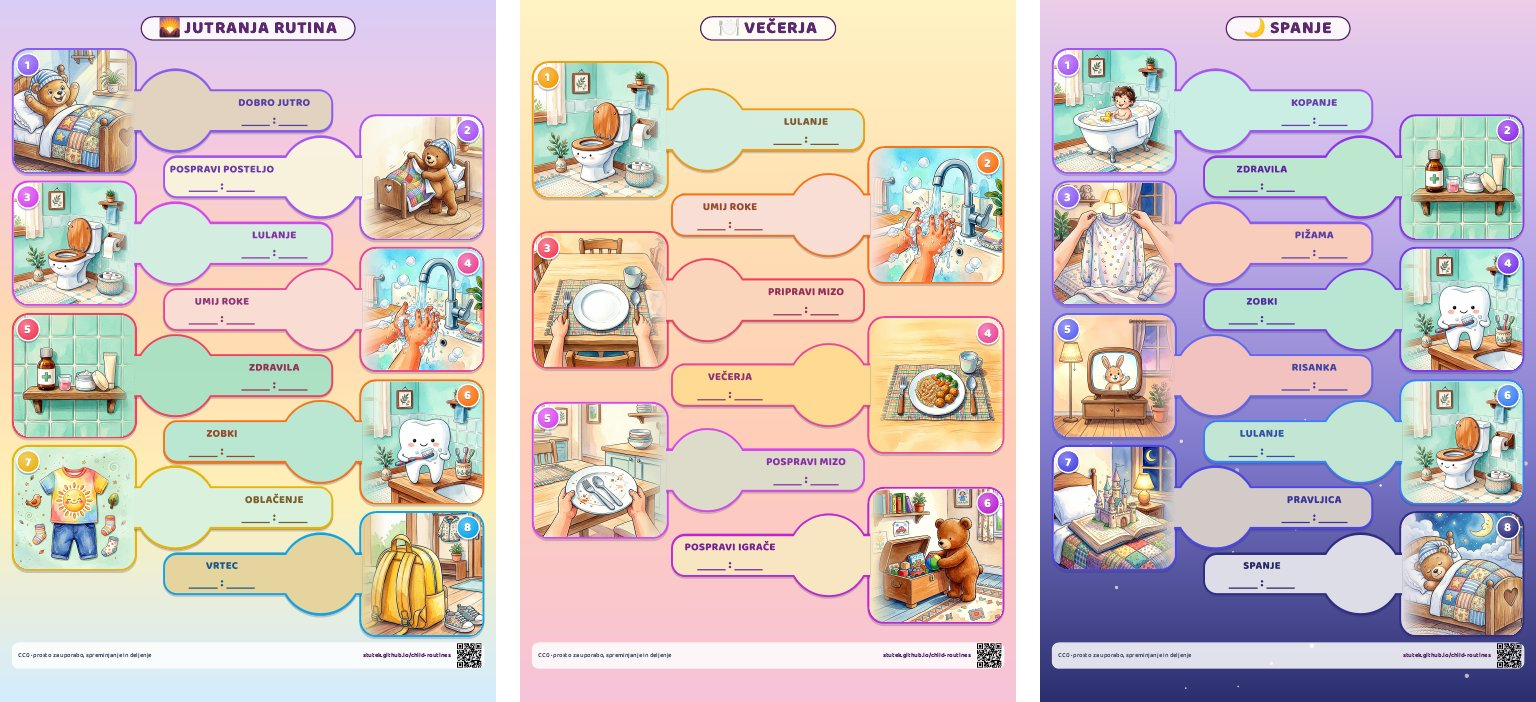
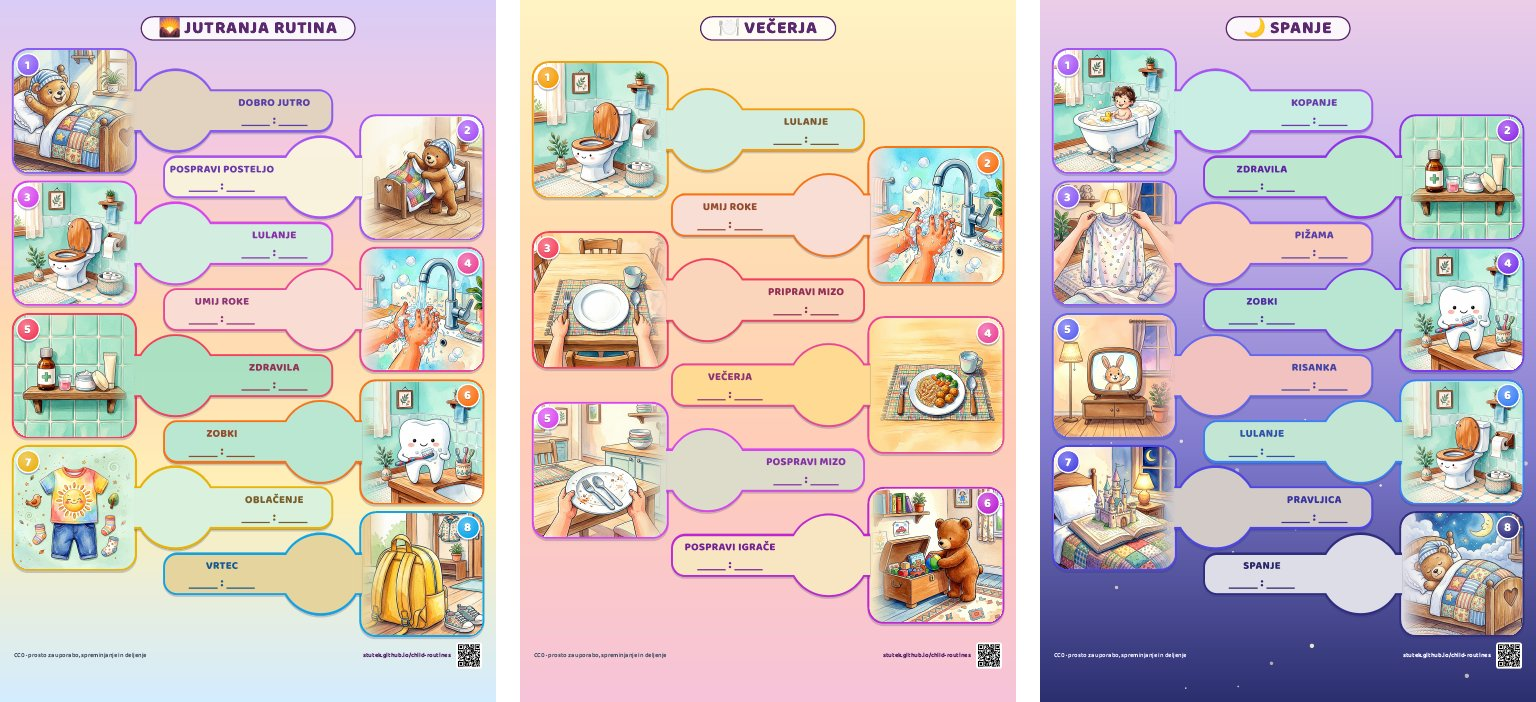
Footer: only the QR code has a white ground; light text on the night sky

Changed region(s): [[0.6875, 0.8974, 1.0, 0.9573], [0.3438, 0.8974, 0.6562, 0.9573], [0.0, 0.8974, 0.3125, 0.9573]]

diff --git a/web/data.js b/web/data.js
@@ -1,6 +1,6 @@
 // Generated by tools/build.py; do not edit by hand.
 window.SHEET_DATA = {
- "css": "\n    @import url('https://fonts.googleapis.com/css2?family=Baloo+2:wght@600;700;800&display=swap');\n\n    * { box-sizing: border-box; margin: 0; padding: 0; }\n\n    /* Sheet geometry, all from the paper size (A4). US Letter later: change --page-w and --page-h\n       (and @page size). The frame takes the width the two images leave. */\n    :root {\n      --page-w: 210mm; --page-h: 297mm; --margin: 5mm; --margin-bottom: 14mm;\n      --img: 58mm; --label: 13pt;\n      --frame-w: calc(var(--page-w) - 2 * var(--margin) - 2 * var(--img));\n    }\n\n    body {\n      /* warm paper with soft watercolour washes, like the sheets (screen only; print has no body background) */\n      background:\n        radial-gradient(circle at 8% 12%, rgba(221, 204, 246, 0.75) 0, transparent 38%),\n        radial-gradient(circle at 92% 18%, rgba(255, 217, 176, 0.65) 0, transparent 36%),\n        radial-gradient(circle at 20% 92%, rgba(201, 238, 222, 0.7) 0, transparent 40%),\n        radial-gradient(circle at 85% 85%, rgba(246, 201, 222, 0.6) 0, transparent 38%),\n        #FFF8EF;\n      background-attachment: fixed;\n      font-family: 'Baloo 2', -apple-system, 'Segoe UI', Roboto, Ubuntu, sans-serif;\n      display: flex;\n      flex-direction: column;\n      align-items: center;\n      padding: 24px;\n      gap: 32px;\n      color: #0f172a;\n      -webkit-font-smoothing: antialiased;\n    }\n\n    .no-print-toolbar {\n      background: white;\n      padding: 16px 24px;\n      border-radius: 16px;\n      box-shadow: 0 4px 14px rgba(0, 0, 0, 0.1);\n      display: flex;\n      align-items: center;\n      gap: 20px;\n      max-width: 840px;\n      width: 100%;\n      justify-content: space-between;\n    }\n    .no-print-toolbar h2 { font-size: 18px; margin-bottom: 3px; }\n    .toolbar-info { font-size: 14px; color: #475569; line-height: 1.4; }\n    .btn-print {\n      background: #7C3AED;\n      color: white;\n      border: none;\n      padding: 12px 24px;\n      font: inherit;\n      font-size: 16px;\n      font-weight: 700;\n      border-radius: 12px;\n      cursor: pointer;\n    }\n    .btn-print:hover { background: #6D28D9; }\n\n    /* A4 sheet; the sky background prints because of print-color-adjust: exact. Margins stay inside\n       the area home printers can print (Epson: 3 mm top and sides, 14 mm bottom). */\n    .page-a4 {\n      position: relative;\n      width: var(--page-w);\n      height: var(--page-h);\n      padding: var(--margin) var(--margin) var(--margin-bottom);\n      display: flex;\n      flex-direction: column;\n      overflow: hidden;\n      box-shadow: 0 8px 24px rgba(0, 0, 0, 0.15);\n      break-after: page;\n      -webkit-print-color-adjust: exact;\n      print-color-adjust: exact;\n    }\n\n    .rt-sky { position: absolute; inset: 0; width: 100%; height: 100%; pointer-events: none; }\n\n    /* Images alternate left and right, each spanning four half-rows, with the label frame beside it.\n       Image + frame + image = sheet width without margins (200 mm on A4), because a frame reaches into\n       the height of the opposite image. */\n    .rt-grid {\n      position: relative;\n      flex-grow: 1;\n      min-height: 0;\n      display: grid;\n      grid-template-columns: var(--img) 1fr var(--img);\n    }\n\n    .rt-header { grid-column: 1 / -1; grid-row: 1; align-self: center; text-align: center; }\n\n    /* Footer: licence left, address and QR right, on a light band that reads on the night sky too */\n    .rt-footer {\n      position: relative; flex: none; height: 11mm; margin-top: 1mm;\n      display: flex; align-items: center; gap: 2mm; padding: 0 1mm 0 3mm;\n      background: rgba(255, 255, 255, 0.85); border-radius: 3mm;\n      font-size: 7.5pt; font-weight: 600; color: #475569;\n    }\n    .rt-license { margin-right: auto; }\n    .rt-site { font-weight: 800; color: #5B2A6E; }\n    .rt-footer svg { width: 11mm; height: 11mm; flex: none; }\n    .rt-title {\n      display: inline-block;\n      font-size: 21pt;\n      font-weight: 800;\n      line-height: 1.1;\n      letter-spacing: 1px;\n      color: #5B2A6E;\n      background: rgba(255, 255, 255, 0.85);\n      border: 2.5px solid #5B2A6E;\n      border-radius: 30px;\n      padding: 1mm 7mm 0.2mm;\n    }\n\n    .rt-pic {\n      position: relative;\n      align-self: center;\n      justify-self: center;\n      width: var(--img);\n      height: var(--img);\n      border-radius: 7mm;   /* badge radius 5 + gap 1 + border 0.9: concentric with the badge */\n      border: 0.9mm solid var(--step);\n      background: var(--bg);\n      box-shadow: 0 1mm 0 rgba(42, 46, 110, 0.22);\n      overflow: hidden;\n    }\n    .rt-pic img { width: 100%; height: 100%; object-fit: cover; display: block; }\n    .rt-missing {\n      width: 100%;\n      height: 100%;\n      display: flex;\n      align-items: center;\n      justify-content: center;\n      font-size: 40pt;\n      font-weight: 800;\n      color: color-mix(in srgb, var(--step) 35%, #ffffff);\n      border: 1mm dashed color-mix(in srgb, var(--step) 35%, #ffffff);\n      border-radius: 6mm;\n    }\n    .pic-left { grid-column: 1; }\n    .pic-right { grid-column: 3; }\n\n    /* The inner image edge fades into the frame background (--bg) */\n    .pic-left img {\n      -webkit-mask-image: linear-gradient(to right, #000 80%, transparent 100%);\n      mask-image: linear-gradient(to right, #000 80%, transparent 100%);\n    }\n    .pic-right img {\n      -webkit-mask-image: linear-gradient(to left, #000 80%, transparent 100%);\n      mask-image: linear-gradient(to left, #000 80%, transparent 100%);\n    }\n\n    .rt-card {\n      position: relative;\n      z-index: 2;\n      grid-column: 2;\n      align-self: center;\n      width: var(--frame-w);\n      height: 18mm;\n      display: flex;\n      align-items: center;\n      gap: 1.5mm;\n      filter: drop-shadow(0 1mm 0 rgba(42, 46, 110, 0.22));\n    }\n\n    /* Frame, circle and image share one outline: both outlines in the step color at the bottom (0),\n       both fills in the background color on top, inset by the border width (1), text on top (2).\n       The border stays even where circle and frame meet. The frame covers the image border at\n       the seam, so it has no border on that side. */\n    .rt-card::before, .rt-card::after { content: \"\"; position: absolute; border-radius: inherit; }\n    .rt-card::before { inset: 0; z-index: 0; background: var(--step); }\n    .rt-card::after { inset: 0.9mm; z-index: 1; background: var(--bg); border-radius: 0; }\n    .card-left { justify-self: start; margin-left: -0.9mm; border-radius: 0 6mm 6mm 0; flex-direction: row-reverse; padding: 0 2.4mm 0 0; }\n    .card-left::after { left: 0; border-radius: 0 5.1mm 5.1mm 0; }\n    .card-right { justify-self: end; margin-right: -0.9mm; border-radius: 6mm 0 0 6mm; padding: 0 0 0 2.4mm; }\n    .card-right::after { right: 0; border-radius: 5.1mm 0 0 5.1mm; }\n\n    .rt-text { position: relative; z-index: 2; flex-grow: 1; display: flex; flex-direction: column; align-items: center; gap: 0.8mm; }\n\n    /* Step number as a sticker in the outer top corner of the image */\n    .rt-num {\n      position: absolute;\n      top: 1.1mm;\n      width: 10mm;\n      height: 10mm;\n      border-radius: 50%;\n      background: radial-gradient(circle at 35% 30%, color-mix(in srgb, var(--step) 65%, #ffffff), var(--step) 70%);\n      border: 0.6mm solid #ffffff;\n      box-shadow: 0 0.8mm 0 rgba(42, 46, 110, 0.28);\n      color: #ffffff;\n      font-size: 15pt;\n      font-weight: 800;\n      line-height: 1;\n      text-shadow: 0 0.3mm 0 rgba(0, 0, 0, 0.18);\n      display: flex;\n      align-items: center;\n      justify-content: center;\n      padding-top: 0.6mm;\n    }\n    /* Concentric with the image corner (nested-radius rule): badge centre = corner centre, 7 mm from\n       the outer edges; 1.1 mm from the padding box = 7 - 5 (badge radius) - 0.9 (border). */\n    .pic-left .rt-num { left: 1.1mm; }\n    .pic-right .rt-num { right: 1.1mm; }\n\n    .rt-label {\n      white-space: nowrap;\n      font-size: var(--label);\n      font-weight: 800;\n      line-height: 1;\n      letter-spacing: 0.3px;\n      color: var(--ink);\n      padding-top: 0.8mm;\n    }\n\n    .rt-time { display: flex; align-items: flex-end; gap: 1.2mm; font-size: 15pt; font-weight: 800; line-height: 1; color: var(--ink); }\n    .rt-time .blank { display: inline-block; width: 12mm; height: 6.5mm; border-bottom: 0.6mm solid var(--ink); }\n\n    /* Magnet spot: a circle larger than the frame (like the image), merged with it */\n    .rt-check { position: relative; width: 35mm; height: 35mm; min-width: 35mm; }\n    .rt-check::before, .rt-check::after { content: \"\"; position: absolute; border-radius: 50%; }\n    .rt-check::before { inset: 0; z-index: 0; background: var(--step); }\n    .rt-check::after { inset: 0.9mm; z-index: 1; background: var(--bg); }\n\n    @media print {\n      body { background: transparent; padding: 0; gap: 0; }\n      .no-print-toolbar { display: none !important; }\n      .page-a4 { box-shadow: none; margin: 0; }\n      @page { size: A4 portrait; margin: 0; }\n    }\n",
+ "css": "\n    @import url('https://fonts.googleapis.com/css2?family=Baloo+2:wght@600;700;800&display=swap');\n\n    * { box-sizing: border-box; margin: 0; padding: 0; }\n\n    /* Sheet geometry, all from the paper size (A4). US Letter later: change --page-w and --page-h\n       (and @page size). The frame takes the width the two images leave. */\n    :root {\n      --page-w: 210mm; --page-h: 297mm; --margin: 5mm; --margin-bottom: 14mm;\n      --img: 58mm; --label: 13pt;\n      --frame-w: calc(var(--page-w) - 2 * var(--margin) - 2 * var(--img));\n    }\n\n    body {\n      /* warm paper with soft watercolour washes, like the sheets (screen only; print has no body background) */\n      background:\n        radial-gradient(circle at 8% 12%, rgba(221, 204, 246, 0.75) 0, transparent 38%),\n        radial-gradient(circle at 92% 18%, rgba(255, 217, 176, 0.65) 0, transparent 36%),\n        radial-gradient(circle at 20% 92%, rgba(201, 238, 222, 0.7) 0, transparent 40%),\n        radial-gradient(circle at 85% 85%, rgba(246, 201, 222, 0.6) 0, transparent 38%),\n        #FFF8EF;\n      background-attachment: fixed;\n      font-family: 'Baloo 2', -apple-system, 'Segoe UI', Roboto, Ubuntu, sans-serif;\n      display: flex;\n      flex-direction: column;\n      align-items: center;\n      padding: 24px;\n      gap: 32px;\n      color: #0f172a;\n      -webkit-font-smoothing: antialiased;\n    }\n\n    .no-print-toolbar {\n      background: white;\n      padding: 16px 24px;\n      border-radius: 16px;\n      box-shadow: 0 4px 14px rgba(0, 0, 0, 0.1);\n      display: flex;\n      align-items: center;\n      gap: 20px;\n      max-width: 840px;\n      width: 100%;\n      justify-content: space-between;\n    }\n    .no-print-toolbar h2 { font-size: 18px; margin-bottom: 3px; }\n    .toolbar-info { font-size: 14px; color: #475569; line-height: 1.4; }\n    .btn-print {\n      background: #7C3AED;\n      color: white;\n      border: none;\n      padding: 12px 24px;\n      font: inherit;\n      font-size: 16px;\n      font-weight: 700;\n      border-radius: 12px;\n      cursor: pointer;\n    }\n    .btn-print:hover { background: #6D28D9; }\n\n    /* A4 sheet; the sky background prints because of print-color-adjust: exact. Margins stay inside\n       the area home printers can print (Epson: 3 mm top and sides, 14 mm bottom). */\n    .page-a4 {\n      position: relative;\n      width: var(--page-w);\n      height: var(--page-h);\n      padding: var(--margin) var(--margin) var(--margin-bottom);\n      display: flex;\n      flex-direction: column;\n      overflow: hidden;\n      box-shadow: 0 8px 24px rgba(0, 0, 0, 0.15);\n      break-after: page;\n      -webkit-print-color-adjust: exact;\n      print-color-adjust: exact;\n    }\n\n    .rt-sky { position: absolute; inset: 0; width: 100%; height: 100%; pointer-events: none; }\n\n    /* Images alternate left and right, each spanning four half-rows, with the label frame beside it.\n       Image + frame + image = sheet width without margins (200 mm on A4), because a frame reaches into\n       the height of the opposite image. */\n    .rt-grid {\n      position: relative;\n      flex-grow: 1;\n      min-height: 0;\n      display: grid;\n      grid-template-columns: var(--img) 1fr var(--img);\n    }\n\n    .rt-header { grid-column: 1 / -1; grid-row: 1; align-self: center; text-align: center; }\n\n    /* Footer: licence left, address and QR right; only the QR has a white ground (it needs it to scan),\n       the text turns light on the night sky */\n    .rt-footer {\n      position: relative; flex: none; height: 11mm; margin-top: 1mm;\n      display: flex; align-items: center; gap: 2mm; padding: 0 1mm;\n      font-size: 7.5pt; font-weight: 600; color: #475569;\n    }\n    .rt-license { margin-right: auto; }\n    .rt-site { font-weight: 800; color: #5B2A6E; }\n    .rt-footer.on-dark, .rt-footer.on-dark .rt-site { color: #F1EEFF; }\n    .rt-footer svg { width: 11mm; height: 11mm; flex: none; background: #ffffff; border-radius: 1mm; padding: 0.5mm; }\n    .rt-title {\n      display: inline-block;\n      font-size: 21pt;\n      font-weight: 800;\n      line-height: 1.1;\n      letter-spacing: 1px;\n      color: #5B2A6E;\n      background: rgba(255, 255, 255, 0.85);\n      border: 2.5px solid #5B2A6E;\n      border-radius: 30px;\n      padding: 1mm 7mm 0.2mm;\n    }\n\n    .rt-pic {\n      position: relative;\n      align-self: center;\n      justify-self: center;\n      width: var(--img);\n      height: var(--img);\n      border-radius: 7mm;   /* badge radius 5 + gap 1 + border 0.9: concentric with the badge */\n      border: 0.9mm solid var(--step);\n      background: var(--bg);\n      box-shadow: 0 1mm 0 rgba(42, 46, 110, 0.22);\n      overflow: hidden;\n    }\n    .rt-pic img { width: 100%; height: 100%; object-fit: cover; display: block; }\n    .rt-missing {\n      width: 100%;\n      height: 100%;\n      display: flex;\n      align-items: center;\n      justify-content: center;\n      font-size: 40pt;\n      font-weight: 800;\n      color: color-mix(in srgb, var(--step) 35%, #ffffff);\n      border: 1mm dashed color-mix(in srgb, var(--step) 35%, #ffffff);\n      border-radius: 6mm;\n    }\n    .pic-left { grid-column: 1; }\n    .pic-right { grid-column: 3; }\n\n    /* The inner image edge fades into the frame background (--bg) */\n    .pic-left img {\n      -webkit-mask-image: linear-gradient(to right, #000 80%, transparent 100%);\n      mask-image: linear-gradient(to right, #000 80%, transparent 100%);\n    }\n    .pic-right img {\n      -webkit-mask-image: linear-gradient(to left, #000 80%, transparent 100%);\n      mask-image: linear-gradient(to left, #000 80%, transparent 100%);\n    }\n\n    .rt-card {\n      position: relative;\n      z-index: 2;\n      grid-column: 2;\n      align-self: center;\n      width: var(--frame-w);\n      height: 18mm;\n      display: flex;\n      align-items: center;\n      gap: 1.5mm;\n      filter: drop-shadow(0 1mm 0 rgba(42, 46, 110, 0.22));\n    }\n\n    /* Frame, circle and image share one outline: both outlines in the step color at the bottom (0),\n       both fills in the background color on top, inset by the border width (1), text on top (2).\n       The border stays even where circle and frame meet. The frame covers the image border at\n       the seam, so it has no border on that side. */\n    .rt-card::before, .rt-card::after { content: \"\"; position: absolute; border-radius: inherit; }\n    .rt-card::before { inset: 0; z-index: 0; background: var(--step); }\n    .rt-card::after { inset: 0.9mm; z-index: 1; background: var(--bg); border-radius: 0; }\n    .card-left { justify-self: start; margin-left: -0.9mm; border-radius: 0 6mm 6mm 0; flex-direction: row-reverse; padding: 0 2.4mm 0 0; }\n    .card-left::after { left: 0; border-radius: 0 5.1mm 5.1mm 0; }\n    .card-right { justify-self: end; margin-right: -0.9mm; border-radius: 6mm 0 0 6mm; padding: 0 0 0 2.4mm; }\n    .card-right::after { right: 0; border-radius: 5.1mm 0 0 5.1mm; }\n\n    .rt-text { position: relative; z-index: 2; flex-grow: 1; display: flex; flex-direction: column; align-items: center; gap: 0.8mm; }\n\n    /* Step number as a sticker in the outer top corner of the image */\n    .rt-num {\n      position: absolute;\n      top: 1.1mm;\n      width: 10mm;\n      height: 10mm;\n      border-radius: 50%;\n      background: radial-gradient(circle at 35% 30%, color-mix(in srgb, var(--step) 65%, #ffffff), var(--step) 70%);\n      border: 0.6mm solid #ffffff;\n      box-shadow: 0 0.8mm 0 rgba(42, 46, 110, 0.28);\n      color: #ffffff;\n      font-size: 15pt;\n      font-weight: 800;\n      line-height: 1;\n      text-shadow: 0 0.3mm 0 rgba(0, 0, 0, 0.18);\n      display: flex;\n      align-items: center;\n      justify-content: center;\n      padding-top: 0.6mm;\n    }\n    /* Concentric with the image corner (nested-radius rule): badge centre = corner centre, 7 mm from\n       the outer edges; 1.1 mm from the padding box = 7 - 5 (badge radius) - 0.9 (border). */\n    .pic-left .rt-num { left: 1.1mm; }\n    .pic-right .rt-num { right: 1.1mm; }\n\n    .rt-label {\n      white-space: nowrap;\n      font-size: var(--label);\n      font-weight: 800;\n      line-height: 1;\n      letter-spacing: 0.3px;\n      color: var(--ink);\n      padding-top: 0.8mm;\n    }\n\n    .rt-time { display: flex; align-items: flex-end; gap: 1.2mm; font-size: 15pt; font-weight: 800; line-height: 1; color: var(--ink); }\n    .rt-time .blank { display: inline-block; width: 12mm; height: 6.5mm; border-bottom: 0.6mm solid var(--ink); }\n\n    /* Magnet spot: a circle larger than the frame (like the image), merged with it */\n    .rt-check { position: relative; width: 35mm; height: 35mm; min-width: 35mm; }\n    .rt-check::before, .rt-check::after { content: \"\"; position: absolute; border-radius: 50%; }\n    .rt-check::before { inset: 0; z-index: 0; background: var(--step); }\n    .rt-check::after { inset: 0.9mm; z-index: 1; background: var(--bg); }\n\n    @media print {\n      body { background: transparent; padding: 0; gap: 0; }\n      .no-print-toolbar { display: none !important; }\n      .page-a4 { box-shadow: none; margin: 0; }\n      @page { size: A4 portrait; margin: 0; }\n    }\n",
  "skies": {
   "dawn": "#D9CCF6 0%, #F6C9DE 22%, #FFD9B0 45%, #FFF0B8 70%, #D3ECFF 100%",
   "afternoon": "#FFF3C4 0%, #FFE0B2 30%, #FFCDB8 62%, #F6C3D9 100%",

diff --git a/output/sl-vsakdan.html b/output/sl-vsakdan.html
@@ -95,16 +95,17 @@
 
     .rt-header { grid-column: 1 / -1; grid-row: 1; align-self: center; text-align: center; }
 
-    /* Footer: licence left, address and QR right, on a light band that reads on the night sky too */
+    /* Footer: licence left, address and QR right; only the QR has a white ground (it needs it to scan),
+       the text turns light on the night sky */
     .rt-footer {
       position: relative; flex: none; height: 11mm; margin-top: 1mm;
-      display: flex; align-items: center; gap: 2mm; padding: 0 1mm 0 3mm;
-      background: rgba(255, 255, 255, 0.85); border-radius: 3mm;
+      display: flex; align-items: center; gap: 2mm; padding: 0 1mm;
       font-size: 7.5pt; font-weight: 600; color: #475569;
     }
     .rt-license { margin-right: auto; }
     .rt-site { font-weight: 800; color: #5B2A6E; }
-    .rt-footer svg { width: 11mm; height: 11mm; flex: none; }
+    .rt-footer.on-dark, .rt-footer.on-dark .rt-site { color: #F1EEFF; }
+    .rt-footer svg { width: 11mm; height: 11mm; flex: none; background: #ffffff; border-radius: 1mm; padding: 0.5mm; }
     .rt-title {
       display: inline-block;
       font-size: 21pt;
@@ -506,7 +507,7 @@
         <div class="rt-check"></div>
       </div>
     </div>
-    <div class="rt-footer"><span class="rt-license">CC0 · prosto za uporabo, spreminjanje in deljenje</span><span class="rt-site">stutek.github.io/child-routines</span><svg width="31mm" height="31mm" version="1.1" viewBox="0 0 31 31" xmlns="http://www.w3.org/2000/svg"><path d="M1,1H2V2H1zM2,1H3V2H2zM3,1H4V2H3zM4,1H5V2H4zM5,1H6V2H5zM6,1H7V2H6zM7,1H8V2H7zM9,1H10V2H9zM10,1H11V2H10zM11,1H12V2H11zM12,1H13V2H12zM13,1H14V2H13zM14,1H15V2H14zM17,1H18V2H17zM18,1H19V2H18zM19,1H20V2H19zM20,1H21V2H20zM21,1H22V2H21zM23,1H24V2H23zM24,1H25V2H24zM25,1H26V2H25zM26,1H27V2H26zM27,1H28V2H27zM28,1H29V2H28zM29,1H30V2H29zM1,2H2V3H1zM7,2H8V3H7zM9,2H10V3H9zM11,2H12V3H11zM13,2H14V3H13zM14,2H15V3H14zM17,2H18V3H17zM18,2H19V3H18zM21,2H22V3H21zM23,2H24V3H23zM29,2H30V3H29zM1,3H2V4H1zM3,3H4V4H3zM4,3H5V4H4zM5,3H6V4H5zM7,3H8V4H7zM11,3H12V4H11zM14,3H15V4H14zM17,3H18V4H17zM19,3H20V4H19zM21,3H22V4H21zM23,3H24V4H23zM25,3H26V4H25zM26,3H27V4H26zM27,3H28V4H27zM29,3H30V4H29zM1,4H2V5H1zM3,4H4V5H3zM4,4H5V5H4zM5,4H6V5H5zM7,4H8V5H7zM9,4H10V5H9zM11,4H12V5H11zM12,4H13V5H12zM13,4H14V5H13zM14,4H15V5H14zM15,4H16V5H15zM18,4H19V5H18zM20,4H21V5H20zM23,4H24V5H23zM25,4H26V5H25zM26,4H27V5H26zM27,4H28V5H27zM29,4H30V5H29zM1,5H2V6H1zM3,5H4V6H3zM4,5H5V6H4zM5,5H6V6H5zM7,5H8V6H7zM12,5H13V6H12zM15,5H16V6H15zM16,5H17V6H16zM17,5H18V6H17zM20,5H21V6H20zM21,5H22V6H21zM23,5H24V6H23zM25,5H26V6H25zM26,5H27V6H26zM27,5H28V6H27zM29,5H30V6H29zM1,6H2V7H1zM7,6H8V7H7zM10,6H11V7H10zM11,6H12V7H11zM14,6H15V7H14zM15,6H16V7H15zM17,6H18V7H17zM18,6H19V7H18zM19,6H20V7H19zM20,6H21V7H20zM23,6H24V7H23zM29,6H30V7H29zM1,7H2V8H1zM2,7H3V8H2zM3,7H4V8H3zM4,7H5V8H4zM5,7H6V8H5zM6,7H7V8H6zM7,7H8V8H7zM9,7H10V8H9zM11,7H12V8H11zM13,7H14V8H13zM15,7H16V8H15zM17,7H18V8H17zM19,7H20V8H19zM21,7H22V8H21zM23,7H24V8H23zM24,7H25V8H24zM25,7H26V8H25zM26,7H27V8H26zM27,7H28V8H27zM28,7H29V8H28zM29,7H30V8H29zM9,8H10V9H9zM11,8H12V9H11zM17,8H18V9H17zM18,8H19V9H18zM19,8H20V9H19zM20,8H21V9H20zM21,8H22V9H21zM1,9H2V10H1zM3,9H4V10H3zM4,9H5V10H4zM6,9H7V10H6zM7,9H8V10H7zM8,9H9V10H8zM11,9H12V10H11zM12,9H13V10H12zM15,9H16V10H15zM18,9H19V10H18zM20,9H21V10H20zM23,9H24V10H23zM26,9H27V10H26zM28,9H29V10H28zM29,9H30V10H29zM1,10H2V11H1zM3,10H4V11H3zM8,10H9V11H8zM9,10H10V11H9zM11,10H12V11H11zM15,10H16V11H15zM17,10H18V11H17zM18,10H19V11H18zM19,10H20V11H19zM20,10H21V11H20zM21,10H22V11H21zM22,10H23V11H22zM23,10H24V11H23zM24,10H25V11H24zM25,10H26V11H25zM29,10H30V11H29zM1,11H2V12H1zM2,11H3V12H2zM4,11H5V12H4zM5,11H6V12H5zM7,11H8V12H7zM8,11H9V12H8zM12,11H13V12H12zM14,11H15V12H14zM15,11H16V12H15zM17,11H18V12H17zM19,11H20V12H19zM22,11H23V12H22zM24,11H25V12H24zM27,11H28V12H27zM28,11H29V12H28zM1,12H2V13H1zM3,12H4V13H3zM5,12H6V13H5zM6,12H7V13H6zM8,12H9V13H8zM9,12H10V13H9zM14,12H15V13H14zM15,12H16V13H15zM19,12H20V13H19zM20,12H21V13H20zM21,12H22V13H21zM22,12H23V13H22zM23,12H24V13H23zM24,12H25V13H24zM29,12H30V13H29zM1,13H2V14H1zM2,13H3V14H2zM5,13H6V14H5zM7,13H8V14H7zM9,13H10V14H9zM10,13H11V14H10zM11,13H12V14H11zM12,13H13V14H12zM14,13H15V14H14zM16,13H17V14H16zM17,13H18V14H17zM18,13H19V14H18zM21,13H22V14H21zM24,13H25V14H24zM26,13H27V14H26zM27,13H28V14H27zM3,14H4V15H3zM4,14H5V15H4zM5,14H6V15H5zM6,14H7V15H6zM8,14H9V15H8zM11,14H12V15H11zM12,14H13V15H12zM13,14H14V15H13zM14,14H15V15H14zM15,14H16V15H15zM16,14H17V15H16zM17,14H18V15H17zM18,14H19V15H18zM20,14H21V15H20zM23,14H24V15H23zM27,14H28V15H27zM28,14H29V15H28zM29,14H30V15H29zM2,15H3V16H2zM5,15H6V16H5zM7,15H8V16H7zM10,15H11V16H10zM11,15H12V16H11zM13,15H14V16H13zM15,15H16V16H15zM18,15H19V16H18zM20,15H21V16H20zM24,15H25V16H24zM27,15H28V16H27zM28,15H29V16H28zM29,15H30V16H29zM4,16H5V17H4zM6,16H7V17H6zM9,16H10V17H9zM15,16H16V17H15zM17,16H18V17H17zM23,16H24V17H23zM24,16H25V17H24zM25,16H26V17H25zM28,16H29V17H28zM1,17H2V18H1zM2,17H3V18H2zM3,17H4V18H3zM4,17H5V18H4zM7,17H8V18H7zM8,17H9V18H8zM9,17H10V18H9zM10,17H11V18H10zM11,17H12V18H11zM15,17H16V18H15zM16,17H17V18H16zM19,17H20V18H19zM20,17H21V18H20zM21,17H22V18H21zM25,17H26V18H25zM26,17H27V18H26zM28,17H29V18H28zM2,18H3V19H2zM8,18H9V19H8zM9,18H10V19H9zM11,18H12V19H11zM16,18H17V19H16zM18,18H19V19H18zM21,18H22V19H21zM24,18H25V19H24zM26,18H27V19H26zM27,18H28V19H27zM28,18H29V19H28zM1,19H2V20H1zM4,19H5V20H4zM6,19H7V20H6zM7,19H8V20H7zM8,19H9V20H8zM9,19H10V20H9zM12,19H13V20H12zM14,19H15V20H14zM15,19H16V20H15zM16,19H17V20H16zM19,19H20V20H19zM23,19H24V20H23zM25,19H26V20H25zM27,19H28V20H27zM4,20H5V21H4zM5,20H6V21H5zM9,20H10V21H9zM11,20H12V21H11zM13,20H14V21H13zM14,20H15V21H14zM15,20H16V21H15zM16,20H17V21H16zM18,20H19V21H18zM23,20H24V21H23zM27,20H28V21H27zM2,21H3V22H2zM3,21H4V22H3zM7,21H8V22H7zM8,21H9V22H8zM9,21H10V22H9zM12,21H13V22H12zM14,21H15V22H14zM15,21H16V22H15zM18,21H19V22H18zM19,21H20V22H19zM20,21H21V22H20zM21,21H22V22H21zM22,21H23V22H22zM23,21H24V22H23zM24,21H25V22H24zM25,21H26V22H25zM26,21H27V22H26zM27,21H28V22H27zM9,22H10V23H9zM10,22H11V23H10zM17,22H18V23H17zM18,22H19V23H18zM19,22H20V23H19zM20,22H21V23H20zM21,22H22V23H21zM25,22H26V23H25zM26,22H27V23H26zM27,22H28V23H27zM28,22H29V23H28zM29,22H30V23H29zM1,23H2V24H1zM2,23H3V24H2zM3,23H4V24H3zM4,23H5V24H4zM5,23H6V24H5zM6,23H7V24H6zM7,23H8V24H7zM9,23H10V24H9zM10,23H11V24H10zM11,23H12V24H11zM13,23H14V24H13zM15,23H16V24H15zM17,23H18V24H17zM18,23H19V24H18zM20,23H21V24H20zM21,23H22V24H21zM23,23H24V24H23zM25,23H26V24H25zM26,23H27V24H26zM28,23H29V24H28zM1,24H2V25H1zM7,24H8V25H7zM9,24H10V25H9zM10,24H11V25H10zM11,24H12V25H11zM12,24H13V25H12zM13,24H14V25H13zM14,24H15V25H14zM15,24H16V25H15zM19,24H20V25H19zM21,24H22V25H21zM25,24H26V25H25zM26,24H27V25H26zM29,24H30V25H29zM1,25H2V26H1zM3,25H4V26H3zM4,25H5V26H4zM5,25H6V26H5zM7,25H8V26H7zM11,25H12V26H11zM12,25H13V26H12zM13,25H14V26H13zM18,25H19V26H18zM21,25H22V26H21zM22,25H23V26H22zM23,25H24V26H23zM24,25H25V26H24zM25,25H26V26H25zM27,25H28V26H27zM28,25H29V26H28zM29,25H30V26H29zM1,26H2V27H1zM3,26H4V27H3zM4,26H5V27H4zM5,26H6V27H5zM7,26H8V27H7zM9,26H10V27H9zM10,26H11V27H10zM11,26H12V27H11zM14,26H15V27H14zM16,26H17V27H16zM20,26H21V27H20zM21,26H22V27H21zM22,26H23V27H22zM25,26H26V27H25zM26,26H27V27H26zM29,26H30V27H29zM1,27H2V28H1zM3,27H4V28H3zM4,27H5V28H4zM5,27H6V28H5zM7,27H8V28H7zM9,27H10V28H9zM10,27H11V28H10zM11,27H12V28H11zM13,27H14V28H13zM14,27H15V28H14zM17,27H18V28H17zM19,27H20V28H19zM20,27H21V28H20zM21,27H22V28H21zM24,27H25V28H24zM27,27H28V28H27zM29,27H30V28H29zM1,28H2V29H1zM7,28H8V29H7zM10,28H11V29H10zM12,28H13V29H12zM14,28H15V29H14zM16,28H17V29H16zM17,28H18V29H17zM19,28H20V29H19zM21,28H22V29H21zM24,28H25V29H24zM26,28H27V29H26zM28,28H29V29H28zM1,29H2V30H1zM2,29H3V30H2zM3,29H4V30H3zM4,29H5V30H4zM5,29H6V30H5zM6,29H7V30H6zM7,29H8V30H7zM9,29H10V30H9zM11,29H12V30H11zM13,29H14V30H13zM15,29H16V30H15zM19,29H20V30H19zM20,29H21V30H20zM21,29H22V30H21zM22,29H23V30H22zM23,29H24V30H23zM24,29H25V30H24zM26,29H27V30H26zM28,29H29V30H28z" id="qr-path" fill="#000000" fill-opacity="1" fill-rule="nonzero" stroke="none" /></svg></div>
+    <div class="rt-footer on-dark"><span class="rt-license">CC0 · prosto za uporabo, spreminjanje in deljenje</span><span class="rt-site">stutek.github.io/child-routines</span><svg width="31mm" height="31mm" version="1.1" viewBox="0 0 31 31" xmlns="http://www.w3.org/2000/svg"><path d="M1,1H2V2H1zM2,1H3V2H2zM3,1H4V2H3zM4,1H5V2H4zM5,1H6V2H5zM6,1H7V2H6zM7,1H8V2H7zM9,1H10V2H9zM10,1H11V2H10zM11,1H12V2H11zM12,1H13V2H12zM13,1H14V2H13zM14,1H15V2H14zM17,1H18V2H17zM18,1H19V2H18zM19,1H20V2H19zM20,1H21V2H20zM21,1H22V2H21zM23,1H24V2H23zM24,1H25V2H24zM25,1H26V2H25zM26,1H27V2H26zM27,1H28V2H27zM28,1H29V2H28zM29,1H30V2H29zM1,2H2V3H1zM7,2H8V3H7zM9,2H10V3H9zM11,2H12V3H11zM13,2H14V3H13zM14,2H15V3H14zM17,2H18V3H17zM18,2H19V3H18zM21,2H22V3H21zM23,2H24V3H23zM29,2H30V3H29zM1,3H2V4H1zM3,3H4V4H3zM4,3H5V4H4zM5,3H6V4H5zM7,3H8V4H7zM11,3H12V4H11zM14,3H15V4H14zM17,3H18V4H17zM19,3H20V4H19zM21,3H22V4H21zM23,3H24V4H23zM25,3H26V4H25zM26,3H27V4H26zM27,3H28V4H27zM29,3H30V4H29zM1,4H2V5H1zM3,4H4V5H3zM4,4H5V5H4zM5,4H6V5H5zM7,4H8V5H7zM9,4H10V5H9zM11,4H12V5H11zM12,4H13V5H12zM13,4H14V5H13zM14,4H15V5H14zM15,4H16V5H15zM18,4H19V5H18zM20,4H21V5H20zM23,4H24V5H23zM25,4H26V5H25zM26,4H27V5H26zM27,4H28V5H27zM29,4H30V5H29zM1,5H2V6H1zM3,5H4V6H3zM4,5H5V6H4zM5,5H6V6H5zM7,5H8V6H7zM12,5H13V6H12zM15,5H16V6H15zM16,5H17V6H16zM17,5H18V6H17zM20,5H21V6H20zM21,5H22V6H21zM23,5H24V6H23zM25,5H26V6H25zM26,5H27V6H26zM27,5H28V6H27zM29,5H30V6H29zM1,6H2V7H1zM7,6H8V7H7zM10,6H11V7H10zM11,6H12V7H11zM14,6H15V7H14zM15,6H16V7H15zM17,6H18V7H17zM18,6H19V7H18zM19,6H20V7H19zM20,6H21V7H20zM23,6H24V7H23zM29,6H30V7H29zM1,7H2V8H1zM2,7H3V8H2zM3,7H4V8H3zM4,7H5V8H4zM5,7H6V8H5zM6,7H7V8H6zM7,7H8V8H7zM9,7H10V8H9zM11,7H12V8H11zM13,7H14V8H13zM15,7H16V8H15zM17,7H18V8H17zM19,7H20V8H19zM21,7H22V8H21zM23,7H24V8H23zM24,7H25V8H24zM25,7H26V8H25zM26,7H27V8H26zM27,7H28V8H27zM28,7H29V8H28zM29,7H30V8H29zM9,8H10V9H9zM11,8H12V9H11zM17,8H18V9H17zM18,8H19V9H18zM19,8H20V9H19zM20,8H21V9H20zM21,8H22V9H21zM1,9H2V10H1zM3,9H4V10H3zM4,9H5V10H4zM6,9H7V10H6zM7,9H8V10H7zM8,9H9V10H8zM11,9H12V10H11zM12,9H13V10H12zM15,9H16V10H15zM18,9H19V10H18zM20,9H21V10H20zM23,9H24V10H23zM26,9H27V10H26zM28,9H29V10H28zM29,9H30V10H29zM1,10H2V11H1zM3,10H4V11H3zM8,10H9V11H8zM9,10H10V11H9zM11,10H12V11H11zM15,10H16V11H15zM17,10H18V11H17zM18,10H19V11H18zM19,10H20V11H19zM20,10H21V11H20zM21,10H22V11H21zM22,10H23V11H22zM23,10H24V11H23zM24,10H25V11H24zM25,10H26V11H25zM29,10H30V11H29zM1,11H2V12H1zM2,11H3V12H2zM4,11H5V12H4zM5,11H6V12H5zM7,11H8V12H7zM8,11H9V12H8zM12,11H13V12H12zM14,11H15V12H14zM15,11H16V12H15zM17,11H18V12H17zM19,11H20V12H19zM22,11H23V12H22zM24,11H25V12H24zM27,11H28V12H27zM28,11H29V12H28zM1,12H2V13H1zM3,12H4V13H3zM5,12H6V13H5zM6,12H7V13H6zM8,12H9V13H8zM9,12H10V13H9zM14,12H15V13H14zM15,12H16V13H15zM19,12H20V13H19zM20,12H21V13H20zM21,12H22V13H21zM22,12H23V13H22zM23,12H24V13H23zM24,12H25V13H24zM29,12H30V13H29zM1,13H2V14H1zM2,13H3V14H2zM5,13H6V14H5zM7,13H8V14H7zM9,13H10V14H9zM10,13H11V14H10zM11,13H12V14H11zM12,13H13V14H12zM14,13H15V14H14zM16,13H17V14H16zM17,13H18V14H17zM18,13H19V14H18zM21,13H22V14H21zM24,13H25V14H24zM26,13H27V14H26zM27,13H28V14H27zM3,14H4V15H3zM4,14H5V15H4zM5,14H6V15H5zM6,14H7V15H6zM8,14H9V15H8zM11,14H12V15H11zM12,14H13V15H12zM13,14H14V15H13zM14,14H15V15H14zM15,14H16V15H15zM16,14H17V15H16zM17,14H18V15H17zM18,14H19V15H18zM20,14H21V15H20zM23,14H24V15H23zM27,14H28V15H27zM28,14H29V15H28zM29,14H30V15H29zM2,15H3V16H2zM5,15H6V16H5zM7,15H8V16H7zM10,15H11V16H10zM11,15H12V16H11zM13,15H14V16H13zM15,15H16V16H15zM18,15H19V16H18zM20,15H21V16H20zM24,15H25V16H24zM27,15H28V16H27zM28,15H29V16H28zM29,15H30V16H29zM4,16H5V17H4zM6,16H7V17H6zM9,16H10V17H9zM15,16H16V17H15zM17,16H18V17H17zM23,16H24V17H23zM24,16H25V17H24zM25,16H26V17H25zM28,16H29V17H28zM1,17H2V18H1zM2,17H3V18H2zM3,17H4V18H3zM4,17H5V18H4zM7,17H8V18H7zM8,17H9V18H8zM9,17H10V18H9zM10,17H11V18H10zM11,17H12V18H11zM15,17H16V18H15zM16,17H17V18H16zM19,17H20V18H19zM20,17H21V18H20zM21,17H22V18H21zM25,17H26V18H25zM26,17H27V18H26zM28,17H29V18H28zM2,18H3V19H2zM8,18H9V19H8zM9,18H10V19H9zM11,18H12V19H11zM16,18H17V19H16zM18,18H19V19H18zM21,18H22V19H21zM24,18H25V19H24zM26,18H27V19H26zM27,18H28V19H27zM28,18H29V19H28zM1,19H2V20H1zM4,19H5V20H4zM6,19H7V20H6zM7,19H8V20H7zM8,19H9V20H8zM9,19H10V20H9zM12,19H13V20H12zM14,19H15V20H14zM15,19H16V20H15zM16,19H17V20H16zM19,19H20V20H19zM23,19H24V20H23zM25,19H26V20H25zM27,19H28V20H27zM4,20H5V21H4zM5,20H6V21H5zM9,20H10V21H9zM11,20H12V21H11zM13,20H14V21H13zM14,20H15V21H14zM15,20H16V21H15zM16,20H17V21H16zM18,20H19V21H18zM23,20H24V21H23zM27,20H28V21H27zM2,21H3V22H2zM3,21H4V22H3zM7,21H8V22H7zM8,21H9V22H8zM9,21H10V22H9zM12,21H13V22H12zM14,21H15V22H14zM15,21H16V22H15zM18,21H19V22H18zM19,21H20V22H19zM20,21H21V22H20zM21,21H22V22H21zM22,21H23V22H22zM23,21H24V22H23zM24,21H25V22H24zM25,21H26V22H25zM26,21H27V22H26zM27,21H28V22H27zM9,22H10V23H9zM10,22H11V23H10zM17,22H18V23H17zM18,22H19V23H18zM19,22H20V23H19zM20,22H21V23H20zM21,22H22V23H21zM25,22H26V23H25zM26,22H27V23H26zM27,22H28V23H27zM28,22H29V23H28zM29,22H30V23H29zM1,23H2V24H1zM2,23H3V24H2zM3,23H4V24H3zM4,23H5V24H4zM5,23H6V24H5zM6,23H7V24H6zM7,23H8V24H7zM9,23H10V24H9zM10,23H11V24H10zM11,23H12V24H11zM13,23H14V24H13zM15,23H16V24H15zM17,23H18V24H17zM18,23H19V24H18zM20,23H21V24H20zM21,23H22V24H21zM23,23H24V24H23zM25,23H26V24H25zM26,23H27V24H26zM28,23H29V24H28zM1,24H2V25H1zM7,24H8V25H7zM9,24H10V25H9zM10,24H11V25H10zM11,24H12V25H11zM12,24H13V25H12zM13,24H14V25H13zM14,24H15V25H14zM15,24H16V25H15zM19,24H20V25H19zM21,24H22V25H21zM25,24H26V25H25zM26,24H27V25H26zM29,24H30V25H29zM1,25H2V26H1zM3,25H4V26H3zM4,25H5V26H4zM5,25H6V26H5zM7,25H8V26H7zM11,25H12V26H11zM12,25H13V26H12zM13,25H14V26H13zM18,25H19V26H18zM21,25H22V26H21zM22,25H23V26H22zM23,25H24V26H23zM24,25H25V26H24zM25,25H26V26H25zM27,25H28V26H27zM28,25H29V26H28zM29,25H30V26H29zM1,26H2V27H1zM3,26H4V27H3zM4,26H5V27H4zM5,26H6V27H5zM7,26H8V27H7zM9,26H10V27H9zM10,26H11V27H10zM11,26H12V27H11zM14,26H15V27H14zM16,26H17V27H16zM20,26H21V27H20zM21,26H22V27H21zM22,26H23V27H22zM25,26H26V27H25zM26,26H27V27H26zM29,26H30V27H29zM1,27H2V28H1zM3,27H4V28H3zM4,27H5V28H4zM5,27H6V28H5zM7,27H8V28H7zM9,27H10V28H9zM10,27H11V28H10zM11,27H12V28H11zM13,27H14V28H13zM14,27H15V28H14zM17,27H18V28H17zM19,27H20V28H19zM20,27H21V28H20zM21,27H22V28H21zM24,27H25V28H24zM27,27H28V28H27zM29,27H30V28H29zM1,28H2V29H1zM7,28H8V29H7zM10,28H11V29H10zM12,28H13V29H12zM14,28H15V29H14zM16,28H17V29H16zM17,28H18V29H17zM19,28H20V29H19zM21,28H22V29H21zM24,28H25V29H24zM26,28H27V29H26zM28,28H29V29H28zM1,29H2V30H1zM2,29H3V30H2zM3,29H4V30H3zM4,29H5V30H4zM5,29H6V30H5zM6,29H7V30H6zM7,29H8V30H7zM9,29H10V30H9zM11,29H12V30H11zM13,29H14V30H13zM15,29H16V30H15zM19,29H20V30H19zM20,29H21V30H20zM21,29H22V30H21zM22,29H23V30H22zM23,29H24V30H23zM24,29H25V30H24zM26,29H27V30H26zM28,29H29V30H28z" id="qr-path" fill="#000000" fill-opacity="1" fill-rule="nonzero" stroke="none" /></svg></div>
   </div>
 
 </body>

diff --git a/web/app.js b/web/app.js
@@ -152,7 +152,7 @@ function sheetHtml(sheet, lang = "sl") {
     <div class="rt-grid" style="grid-template-rows: ${gridRows};">
       <div class="rt-header"><div class="rt-title">${esc(sheet.title)}</div></div>${rows}
     </div>
-    <div class="rt-footer"><span class="rt-license">${esc(D.license[lang] || D.license.en)}</span><span class="rt-site">${esc(D.site)}</span>${D.qr}</div>
+    <div class="rt-footer${sheet.sky === "night" ? " on-dark" : ""}"><span class="rt-license">${esc(D.license[lang] || D.license.en)}</span><span class="rt-site">${esc(D.site)}</span>${D.qr}</div>
   </div>`;
 }
 

diff --git a/tools/build.py b/tools/build.py
@@ -149,7 +149,7 @@ def sheet_html(sheet, lang="sl"):
     <div class="rt-grid" style="grid-template-rows: {grid_rows};">
       <div class="rt-header"><div class="rt-title">{escape(sheet['title'])}</div></div>{''.join(rows)}
     </div>
-    <div class="rt-footer"><span class="rt-license">{escape(LICENSE.get(lang, LICENSE["en"]))}</span><span class="rt-site">{SITE}</span>{QR}</div>
+    <div class="rt-footer{' on-dark' if sheet['sky'] == 'night' else ''}"><span class="rt-license">{escape(LICENSE.get(lang, LICENSE["en"]))}</span><span class="rt-site">{SITE}</span>{QR}</div>
   </div>
 """
 
@@ -244,16 +244,17 @@ CSS = """
 
     .rt-header { grid-column: 1 / -1; grid-row: 1; align-self: center; text-align: center; }
 
-    /* Footer: licence left, address and QR right, on a light band that reads on the night sky too */
+    /* Footer: licence left, address and QR right; only the QR has a white ground (it needs it to scan),
+       the text turns light on the night sky */
     .rt-footer {
       position: relative; flex: none; height: __FOOTER__mm; margin-top: 1mm;
-      display: flex; align-items: center; gap: 2mm; padding: 0 1mm 0 3mm;
-      background: rgba(255, 255, 255, 0.85); border-radius: 3mm;
+      display: flex; align-items: center; gap: 2mm; padding: 0 1mm;
       font-size: 7.5pt; font-weight: 600; color: #475569;
     }
     .rt-license { margin-right: auto; }
     .rt-site { font-weight: 800; color: #5B2A6E; }
-    .rt-footer svg { width: 11mm; height: 11mm; flex: none; }
+    .rt-footer.on-dark, .rt-footer.on-dark .rt-site { color: #F1EEFF; }
+    .rt-footer svg { width: 11mm; height: 11mm; flex: none; background: #ffffff; border-radius: 1mm; padding: 0.5mm; }
     .rt-title {
       display: inline-block;
       font-size: 21pt;
